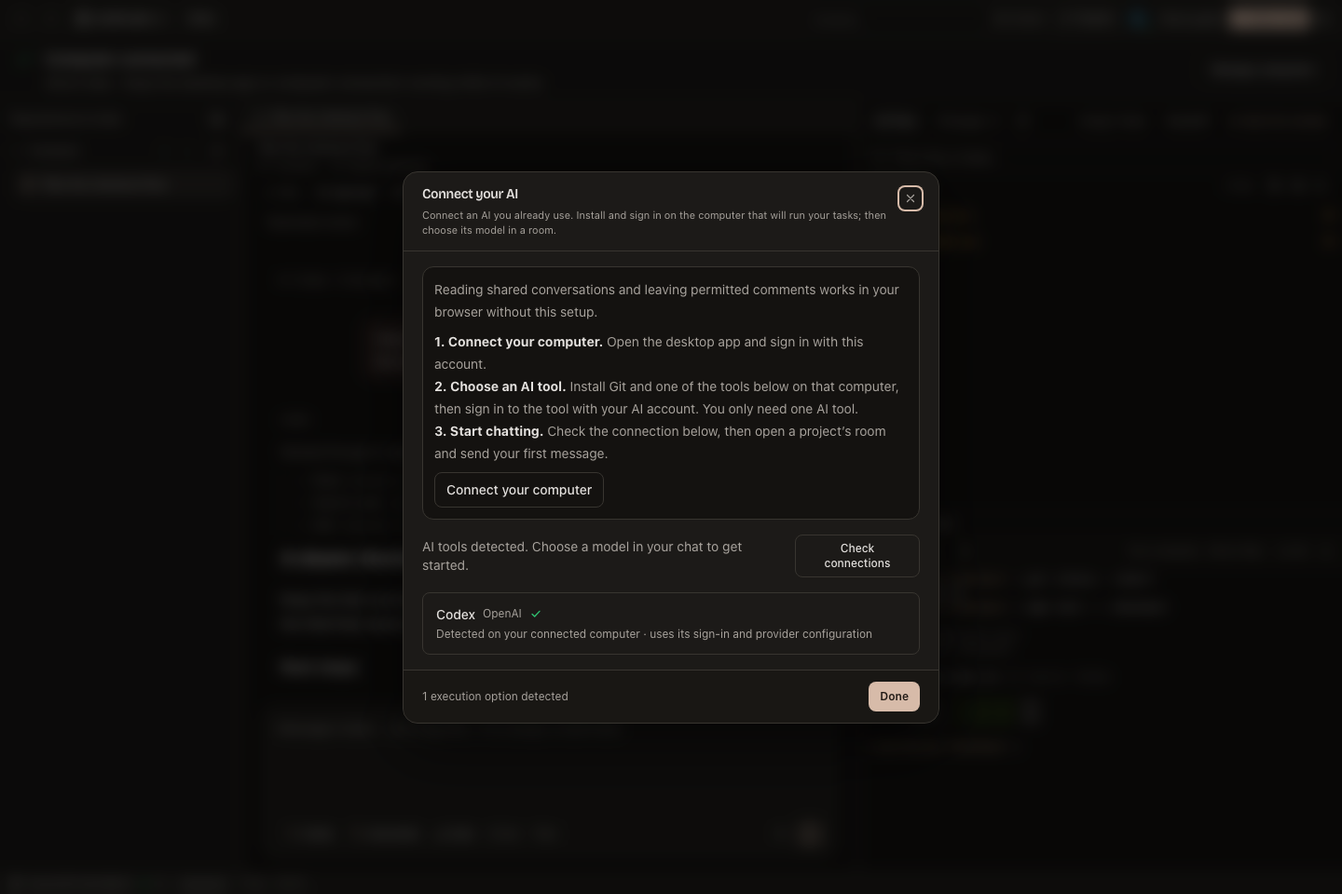
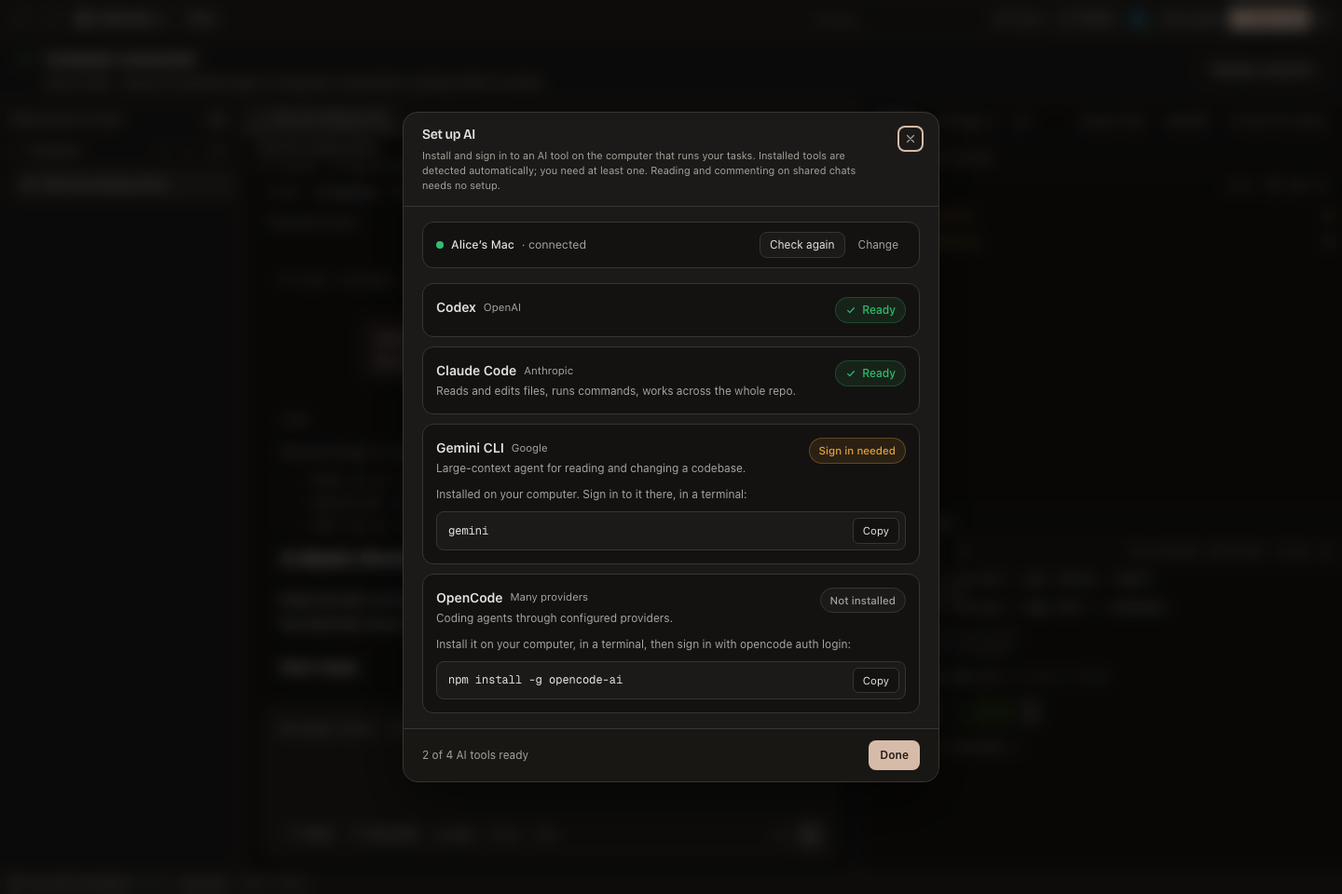
Set up AI: the connected computer, and each tool's state with its next command
The dialog now follows the new design: the connected computer on one line
(Check again, and Change to Your computers, or Connect computer when there
is none), then each AI tool with a status: Ready, Sign in needed, No models
yet, or Not installed. A tool that needs something shows the command to copy
for that computer; the footer counts how many are ready.

Nothing is hard-coded: the list, versions and states come from the
computer's runner; install commands from the tool catalog, with Homebrew
commands replaced by the vendor's Windows instructions on a Windows computer;
and there is no "Git ✓" because the runner does not report Git.

A tool installed but not signed in used to read "Not installed", because
runners only report tools ready to run. Runners now also report signed-out
tools (signedOutAgentIds; runner_devices.signed_out_agent_ids, migration
066). They take no work, and Set up AI shows their sign-in command
(claude auth login, codex login, gemini, opencode auth login).

diff --git a/app/components/ai/ConnectAiDialog.tsx b/app/components/ai/ConnectAiDialog.tsx
@@ -1,29 +1,57 @@
 "use client";
 
+/*
+ * Set up AI: which AI tools the connected computer can run. Tools are detected
+ * by that computer's runner; each row says Ready, Sign in needed (with the
+ * command to sign in), No models yet, or Not installed (with the command to
+ * install it, for that computer's operating system).
+ */
+
 import { useCallback, useEffect, useState } from "react";
 import { fetchAgents, type AgentStatus } from "../../lib/ai/client";
 import { CheckIcon, SpinnerIcon } from "../icons";
-import { GhostButton, Modal, PrimaryButton } from "../ui/Modal";
+import { Modal, PrimaryButton } from "../ui/Modal";
+import { useComputerConnection } from "./useComputerConnection";
+
+const NEEDS_MODEL = ["opencode", "ollama", "codex-ollama", "codex-lmstudio"];
 
 /** An agent that can take a run right now: installed, and signed in if it needs to be. */
 export function agentReady(agent: AgentStatus): boolean {
   return agent.installed && (!agent.auth || agent.auth.loggedIn)
-    && (!["opencode", "ollama", "codex-ollama", "codex-lmstudio"].includes(agent.id) || !!agent.models?.choices.length);
+    && (!NEEDS_MODEL.includes(agent.id) || !!agent.models?.choices.length);
+}
+
+type State = "ready" | "sign-in" | "models" | "missing";
+
+function stateOf(agent: AgentStatus): State {
+  if (!agent.installed) return "missing";
+  if (agent.auth && !agent.auth.loggedIn) return "sign-in";
+  return agentReady(agent) ? "ready" : "models";
+}
+
+/** The install step for this computer: a Homebrew command means nothing on Windows. */
+function installStep(agent: AgentStatus, platform: string | null | undefined): { command: string | null; note: string | null } {
+  const { command, alternative } = agent.install;
+  if (platform === "win32" && command.startsWith("brew ")) {
+    return alternative && !alternative.startsWith("brew ") && !alternative.includes("| bash")
+      ? { command: null, note: alternative }
+      : { command: null, note: `See ${agent.install.docs} for Windows.` };
+  }
+  return { command, note: null };
 }
 
 export function ConnectAiDialog({ onClose, onOpenDevices }: { onClose: () => void; onOpenDevices?: () => void }) {
+  const connection = useComputerConnection();
   const [agents, setAgents] = useState<AgentStatus[] | null>(null);
   const [error, setError] = useState<string | null>(null);
-  const [copiedId, setCopiedId] = useState<string | null>(null);
+  const [copied, setCopied] = useState<string | null>(null);
   const [refreshing, setRefreshing] = useState(true);
-  const [canRun, setCanRun] = useState(false);
 
   const reload = useCallback((refresh = false) =>
     fetchAgents(refresh).then(response => {
       setAgents(response.agents);
-      setCanRun(response.canRun);
     }).catch(cause => {
-      setError(cause instanceof Error ? cause.message : "Could not check your AI connections. Try again.");
+      setError(cause instanceof Error ? cause.message : "Could not check your AI tools. Try again.");
     }).finally(() => {
       setRefreshing(false);
     }), []);
@@ -32,86 +60,106 @@ export function ConnectAiDialog({ onClose, onOpenDevices }: { onClose: () => voi
     void reload();
   }, [reload]);
 
+  function recheck() {
+    setError(null);
+    setRefreshing(true);
+    void connection.refresh();
+    void reload(true);
+  }
+
+  function copy(id: string, text: string) {
+    void navigator.clipboard.writeText(text).then(() => {
+      setCopied(id);
+      setTimeout(() => setCopied(null), 1600);
+    }).catch(() => setError("Could not copy. Select and copy the command manually."));
+  }
+
   const readyCount = agents?.filter(agentReady).length ?? 0;
+  const connected = connection.status === "connected";
+  const computer = connection.computer;
+  const platform = computer?.platform;
 
   return (
     <Modal
-      title="Connect your AI"
-      description="Connect an AI you already use. Install and sign in on the computer that will run your tasks; then choose its model in a room."
+      title="Set up AI"
+      description="Install and sign in to an AI tool on the computer that runs your tasks. Installed tools are detected automatically; you need at least one. Reading and commenting on shared chats needs no setup."
       width="max-w-xl"
       onClose={onClose}
       footer={
         <>
-          <span className="mr-auto text-[12px] text-vs-muted">
-            {agents === null ? "" : `${readyCount} execution option${readyCount === 1 ? "" : "s"} detected`}
+          <span role="status" className="mr-auto text-[12px] text-vs-muted">
+            {agents === null ? "" : `${readyCount} of ${agents.length} AI tools ready`}
           </span>
-          <PrimaryButton onClick={onClose}>
-            {readyCount > 0 ? "Done" : "Skip for now"}
-          </PrimaryButton>
+          <PrimaryButton onClick={onClose}>{readyCount > 0 ? "Done" : "Skip for now"}</PrimaryButton>
         </>
       }
     >
-      <div className="rounded-xl border border-vs-border bg-vs-editor p-3 text-sm leading-6 text-vs-muted">
-        <p className="mb-2">Reading shared conversations and leaving permitted comments works in your browser without this setup.</p>
-        <p><strong className="text-vs-fg">1. Connect your computer.</strong> Open the desktop app and sign in with this account.</p>
-        <p><strong className="text-vs-fg">2. Choose an AI tool.</strong> Install Git and one of the tools below on that computer, then sign in to the tool with your AI account. You only need one AI tool.</p>
-        <p><strong className="text-vs-fg">3. Start chatting.</strong> Check the connection below, then open a project’s room and send your first message.</p>
-        {onOpenDevices && <button type="button" onClick={onOpenDevices} className="mt-2 rounded-lg border border-vs-border px-3 py-1.5 font-medium text-vs-fg hover:bg-vs-hover">Connect your computer</button>}
-      </div>
-      <div className="flex items-center justify-between gap-3">
-        <p className="text-sm text-vs-muted">{canRun ? "AI tools detected. Choose a model in your chat to get started." : "No AI tool is ready yet. Keep your computer connected while you complete setup."}</p>
-        <GhostButton onClick={() => { setError(null); setRefreshing(true); void reload(true); }} disabled={refreshing}>{refreshing ? "Checking…" : "Check connections"}</GhostButton>
-      </div>
+      <section aria-label="Connected computer" className="flex flex-wrap items-center justify-between gap-2 rounded-xl border border-vs-border bg-vs-editor px-3.5 py-2.5 text-[12.5px]">
+        <div className="flex min-w-0 items-center gap-2">
+          <span className={`h-2 w-2 shrink-0 rounded-full ${connected ? "bg-vs-success" : connection.status === "checking" ? "bg-vs-muted/40" : "bg-vs-warn"}`} />
+          <span className="truncate font-medium text-vs-fg">
+            {connected ? computer?.name ?? "Connected computer"
+              : connection.status === "checking" ? "Checking your computer…"
+              : connection.status === "offline" ? `${computer?.name ?? "Your computer"} is offline`
+              : connection.status === "update" ? `${computer?.name ?? "Your computer"} needs an update`
+              : connection.status === "error" ? "Couldn’t check your computer"
+              : "No computer connected"}
+          </span>
+          {connected && <span className="shrink-0 text-vs-muted">· connected</span>}
+        </div>
+        <div className="flex items-center gap-1.5">
+          <button type="button" onClick={recheck} disabled={refreshing || connection.checking}
+            className="rounded-lg border border-vs-border bg-vs-panel px-2.5 py-1 text-[12px] text-vs-fg transition hover:bg-vs-hover disabled:opacity-60">
+            {refreshing || connection.checking ? "Checking…" : "Check again"}
+          </button>
+          {onOpenDevices && (connected
+            ? <button type="button" onClick={onOpenDevices} className="px-2 py-1 text-[12px] text-vs-muted transition hover:text-vs-fg">Change</button>
+            : <button type="button" onClick={onOpenDevices} className="rounded-lg bg-vs-accent px-2.5 py-1 text-[12px] font-medium text-vs-accent-fg transition hover:opacity-90">Connect computer</button>)}
+        </div>
+      </section>
+      {!connected && connection.status !== "checking" && (
+        <p className="-mt-2 text-[12.5px] leading-5 text-vs-muted">AI tools are detected on your computer, so connect it first: open the desktop app and sign in with this account.</p>
+      )}
+
       {error && (
-        <p role="alert" className="rounded-lg border border-vs-danger/40 bg-vs-danger/10 px-3 py-2 text-sm text-vs-danger">
-          {error}
-        </p>
+        <p role="alert" className="rounded-lg border border-vs-danger/40 bg-vs-danger/10 px-3 py-2 text-sm text-vs-danger">{error}</p>
       )}
 
       {agents === null && !error ? (
-        <div className="flex justify-center py-8">
-          <SpinnerIcon className="h-5 w-5 text-vs-muted" />
-        </div>
+        <div className="flex justify-center py-8"><SpinnerIcon className="h-5 w-5 text-vs-muted" /></div>
       ) : (
-        <ul className="space-y-2">
+        <ul aria-label="AI tools" className="space-y-2.5">
           {(agents ?? []).map((agent) => {
-            const ready = agentReady(agent);
+            const state = stateOf(agent);
+            const install = installStep(agent, platform);
+            const step = state === "missing" ? install.command : state === "sign-in" ? agent.install.signIn ?? null : null;
             return (
-              <li key={agent.id} className="rounded-lg border border-vs-border px-3.5 py-3">
-                <div className="flex items-center gap-3">
-                  <div className="min-w-0 flex-1">
-                    <p className="flex items-center gap-2 text-[14px] font-medium text-vs-fg">
-                      {agent.name}
-                      <span className="text-[12px] font-normal text-vs-muted">{agent.vendor}</span>
-                      {ready && <CheckIcon className="h-3.5 w-3.5 text-vs-success" />}
+              <li key={agent.id} className="rounded-xl border border-vs-border bg-vs-editor p-3.5">
+                <div className="flex items-start justify-between gap-3">
+                  <div className="min-w-0">
+                    <p className="flex items-center gap-2">
+                      <span className="text-[14px] font-semibold text-vs-fg">{agent.name}</span>
+                      <span className="text-[11.5px] text-vs-muted">{agent.vendor}</span>
                     </p>
                     <p className="mt-0.5 text-[12px] leading-5 text-vs-muted">{agent.blurb}</p>
-                    <p className="mt-0.5 text-[12px] text-vs-muted">
-                      {agent.installed ? "Detected on your connected computer · uses its sign-in and provider configuration" : "Not detected on a connected computer. Install it there and sign in to it in a terminal on that computer."}
-                    </p>
-                    {agent.installed && !ready && <p className="mt-1 text-xs text-vs-warn">No models available yet. Connect a provider or install a compatible local model, then check again.</p>}
                   </div>
-
+                  <StatePill state={state} />
                 </div>
 
-                {!agent.installed && (
-                  <div className="mt-2 flex items-center gap-2">
-                    <code className="flex-1 truncate rounded-md border border-vs-border bg-vs-editor px-2.5 py-1.5 font-mono text-[12px] text-vs-fg">
-                      {agent.install.command}
-                    </code>
-                    <GhostButton
-                      onClick={() => {
-                        void navigator.clipboard.writeText(agent.install.command).then(() => {
-                          setCopiedId(agent.id);
-                          setTimeout(() => setCopiedId(null), 1500);
-                        }).catch(() => setError("Could not copy. Select and copy the installation command manually."));
-                      }}
-                    >
-                      {copiedId === agent.id ? "Copied" : "Copy"}
-                    </GhostButton>
+                {state === "models" && <p className="mt-2 text-[12px] leading-5 text-vs-warn">Installed, but no models yet. Connect a provider or install a compatible local model, then check again.</p>}
+                {state === "sign-in" && <p className="mt-2 text-[12px] leading-5 text-vs-muted">Installed on your computer. Sign in to it there{agent.install.signIn ? ", in a terminal:" : "."}</p>}
+                {state === "missing" && (install.note
+                  ? <p className="mt-2 text-[12px] leading-5 text-vs-muted">{install.note}</p>
+                  : <p className="mt-2 text-[12px] leading-5 text-vs-muted">Install it on your computer, in a terminal{agent.install.signIn && <>, then sign in with <code className="font-mono text-vs-fg">{agent.install.signIn}</code></>}:</p>)}
+                {step && (
+                  <div className="mt-2 flex items-center gap-2 rounded-lg border border-vs-border bg-vs-panel py-1.5 pl-3 pr-1.5">
+                    <code className="vs-scroll min-w-0 flex-1 overflow-x-auto whitespace-nowrap font-mono text-[12px] text-vs-fg">{step}</code>
+                    <button type="button" aria-label={`Copy the ${agent.name} command`} onClick={() => copy(agent.id, step)}
+                      className="shrink-0 rounded-md border border-vs-border bg-vs-editor px-2.5 py-1 text-[11.5px] text-vs-fg transition hover:bg-vs-hover">
+                      {copied === agent.id ? "Copied ✓" : "Copy"}
+                    </button>
                   </div>
                 )}
-
               </li>
             );
           })}
@@ -119,4 +167,13 @@ export function ConnectAiDialog({ onClose, onOpenDevices }: { onClose: () => voi
       )}
     </Modal>
   );
+}
+
+function StatePill({ state }: { state: State }) {
+  if (state === "ready") {
+    return <span className="inline-flex shrink-0 items-center gap-1.5 rounded-full border border-vs-success/25 bg-vs-success/10 px-2.5 py-1 text-[12px] font-medium text-vs-success"><CheckIcon className="h-3 w-3" />Ready</span>;
+  }
+  const label = state === "sign-in" ? "Sign in needed" : state === "models" ? "No models yet" : "Not installed";
+  const tone = state === "missing" ? "border-vs-border bg-vs-panel text-vs-muted" : "border-vs-warn/30 bg-vs-warn/10 text-vs-warn";
+  return <span className={`inline-flex shrink-0 items-center rounded-full border px-2.5 py-1 text-[11.5px] font-medium ${tone}`}>{label}</span>;
 }

diff --git a/app/docs/content.ts b/app/docs/content.ts
@@ -42,7 +42,7 @@ Imported files are uploaded to the workspace, and authorised teammates can acces
 
 - You can sign in and open your project’s room.
 - **Your computers** shows an online computer under the same account.
-- **Connect your AI** shows an installed, configured execution option.
+- **Set up AI** shows at least one AI tool as **Ready**.
 - The composer has an available provider and model selected.
 - You have edit access and control of the conversation.
 
@@ -207,11 +207,11 @@ Using a tool still asks in the chat, as described above. MCP servers work with C
     sections: [
       { id: "connect", title: "Install and connect one tool", body: `1. Install Git and your chosen AI command-line tool on the connected computer. Use its official installer and sign-in instructions.
 2. Run that tool directly in a terminal once and finish its login/provider setup.
-3. In Multicode AI, open **AI providers**, **Set up AI**, or **Providers** inside a chat.
-4. Select **Check connections**. If a detected tool offers **Connect**, follow its login flow; you can also complete the CLI login in your terminal.
+3. In Multicode AI, open **AI providers**, **Set up AI**, or **Providers** inside a chat. The top line names your connected computer; **Change** opens Your computers.
+4. Select **Check again**. Each tool shows **Ready**, **Sign in needed** (with the command to sign in, such as \`claude auth login\` or \`codex login\`), **No models yet**, or **Not installed** (with the install command for that computer; on Windows, Homebrew commands are replaced by the vendor's Windows installer).
 5. Return to the room and choose its provider and model in the composer.
 
-You only need **one** working tool. The app displays installation commands for missing tools and status for installed tools. It does not install every provider or purchase AI credits for you.`, screenshot: "providers" },
+You only need **one** working tool; the footer counts how many are ready. It does not install every provider or purchase AI credits for you.`, screenshot: "providers" },
       { id: "options", title: "Available execution options", body: `| Option | Required setup | Behavior in this app |
 | --- | --- | --- |
 | Claude Code | Installed CLI and provider sign-in | Coding agent; available aliases or discovered models |
@@ -765,7 +765,7 @@ Do not post the complete token in a public support thread.` },
       { id: "email", title: "The verification email hasn’t arrived", body: `Check the entered address and spam folder. Wait for the resend timer, then request a new code and use the newest email. Follow the code expiry and resend instructions shown by Clerk.
 
 If the page reports delivery failure, follow its retry guidance or contact the workspace administrator. Email delivery acceptance does not guarantee placement in the inbox. Google sign-in does not require this separate code flow.` },
-      { id: "provider", title: "A model is missing or the provider fails", body: `Try the installed AI CLI directly on the connected computer and finish its own login or provider configuration. Update the CLI if needed, then use **Check connections** and refresh the model picker.
+      { id: "provider", title: "A model is missing or the provider fails", body: `Try the installed AI CLI directly on the connected computer and finish its own login or provider configuration. Update the CLI if needed, then use **Check again** in Set up AI and refresh the model picker.
 
 If the app marks a model unavailable, select an available model explicitly. If the provider reports quota or billing errors, resolve them in that provider’s account. For local models, confirm the model is installed and the expected local server is running. Discovery does not download weights.` },
       { id: "files", title: "Files or changes are missing", body: `Confirm the selected room and repository. Your original imported folder, the app’s saved repository, and the runner’s managed worktree are separate locations. Check import completion, save status, the last uploaded activity, and whether the correct repository was published or synced.

diff --git a/app/api/runner/heartbeat/route.ts b/app/api/runner/heartbeat/route.ts
@@ -32,12 +32,16 @@ async function handlePOST(request: Request) {
   }
   const agentIds = body.agentIds.filter((id: unknown): id is string => typeof id === "string" && !!agentById(id));
   const catalog = sanitizeCatalog(body.modelCatalog);
+  // Installed but signed out: shown in Set up AI with the sign-in command, never given work.
+  const signedOutAgentIds = Array.isArray(body.signedOutAgentIds)
+    ? [...new Set(body.signedOutAgentIds.filter((id: unknown): id is string => typeof id === "string" && !!agentById(id) && !agentIds.includes(id)))]
+    : [];
   // Names of the AI-tool keys this computer holds, never their values.
   const secretNames = Array.isArray(body.secretNames)
     ? [...new Set(body.secretNames.filter((name: unknown): name is string => typeof name === "string" && /^[A-Z][A-Z0-9_]{0,63}$/.test(name)))].sort().slice(0, 200)
     : [];
-  const changed = await query(`UPDATE runner_devices SET version = $2, agent_ids = $3, model_catalog = $4, supports_inputs=$5, supports_isolated_chats=$6, supports_terminal=$7, supports_attachments=$8, supports_agent_tools=$9, secret_names=$10, supports_permissions=$11, last_seen_at = now() WHERE id = $1
-    AND (last_seen_at IS NULL OR version IS DISTINCT FROM $2 OR agent_ids IS DISTINCT FROM $3 OR model_catalog IS DISTINCT FROM $4::jsonb OR supports_inputs IS DISTINCT FROM $5 OR supports_isolated_chats IS DISTINCT FROM $6 OR supports_terminal IS DISTINCT FROM $7 OR supports_attachments IS DISTINCT FROM $8 OR supports_agent_tools IS DISTINCT FROM $9 OR secret_names IS DISTINCT FROM $10 OR supports_permissions IS DISTINCT FROM $11) RETURNING id`, [device.id, "2", agentIds, JSON.stringify(catalog),body.supportsInputs===true,body.supportsIsolatedChats===true,body.supportsTerminal===true,body.supportsAttachments===true,body.supportsAgentTools===true,secretNames,body.supportsPermissions===true]);
+  const changed = await query(`UPDATE runner_devices SET version = $2, agent_ids = $3, model_catalog = $4, supports_inputs=$5, supports_isolated_chats=$6, supports_terminal=$7, supports_attachments=$8, supports_agent_tools=$9, secret_names=$10, supports_permissions=$11, signed_out_agent_ids=$12, last_seen_at = now() WHERE id = $1
+    AND (last_seen_at IS NULL OR version IS DISTINCT FROM $2 OR agent_ids IS DISTINCT FROM $3 OR model_catalog IS DISTINCT FROM $4::jsonb OR supports_inputs IS DISTINCT FROM $5 OR supports_isolated_chats IS DISTINCT FROM $6 OR supports_terminal IS DISTINCT FROM $7 OR supports_attachments IS DISTINCT FROM $8 OR supports_agent_tools IS DISTINCT FROM $9 OR secret_names IS DISTINCT FROM $10 OR supports_permissions IS DISTINCT FROM $11 OR signed_out_agent_ids IS DISTINCT FROM $12) RETURNING id`, [device.id, "2", agentIds, JSON.stringify(catalog),body.supportsInputs===true,body.supportsIsolatedChats===true,body.supportsTerminal===true,body.supportsAttachments===true,body.supportsAgentTools===true,secretNames,body.supportsPermissions===true,signedOutAgentIds]);
   if(changed.length)await (await events()).publish(`user:${device.userId}`,{type:'devices.changed',at:Date.now()}).catch(()=>{});
   return Response.json(
     { ok: true, deviceId: device.id, serverTime: Date.now() } satisfies HeartbeatResponse,

diff --git a/app/lib/ai/catalog.ts b/app/lib/ai/catalog.ts
@@ -105,6 +105,8 @@ export type AgentSpec = {
     command: string;
     /** Offered when the vendor has a first-party installer worth preferring. */
     alternative?: string;
+    /** Run once after installing, in a terminal on that computer, to sign in. */
+    signIn?: string;
     docs: string;
   };
   blurb: string;
@@ -189,6 +191,7 @@ export const AGENTS: AgentSpec[] = [
     install: {
       command: "npm install -g @anthropic-ai/claude-code",
       alternative: "curl -fsSL https://claude.ai/install.sh | bash",
+      signIn: "claude auth login",
       docs: "https://docs.claude.com/en/docs/claude-code",
     },
     blurb: "Reads and edits files, runs commands, works across the whole repo.",
@@ -219,6 +222,7 @@ export const AGENTS: AgentSpec[] = [
     install: {
       command: "npm install -g @openai/codex",
       alternative: "brew install codex",
+      signIn: "codex login",
       docs: "https://developers.openai.com/codex/cli",
     },
     blurb: "Runs a task to completion in the working copy and reports back.",
@@ -238,6 +242,7 @@ export const AGENTS: AgentSpec[] = [
     efforts: [],
     install: {
       command: "npm install -g @google/gemini-cli",
+      signIn: "gemini",
       docs: "https://github.com/google-gemini/gemini-cli",
     },
     blurb: "Large-context agent for reading and changing a codebase.",
@@ -266,7 +271,7 @@ export const AGENTS: AgentSpec[] = [
     promptArgs: (prompt, opts) => ["run", "--format", "json", "--model", requiredModel(opts), ...(opts?.effort ? ["--variant", opts.effort] : []), "--", prompt],
     createStreamParser: createOpenCodeStreamParser,
     models: [], efforts: [],
-    install: { command: "npm install -g opencode-ai", docs: "https://opencode.ai/docs/providers/" },
+    install: { command: "npm install -g opencode-ai", signIn: "opencode auth login", docs: "https://opencode.ai/docs/providers/" },
     blurb: "Coding agents through configured providers: OpenRouter, Anthropic, Google, OpenAI, DeepSeek, Groq, and more. Connect accounts once with opencode auth login on your runner.",
   },
   ...(["ollama", "lmstudio"] as const).map(provider => ({

diff --git a/app/api/ai/agents/route.ts b/app/api/ai/agents/route.ts
@@ -23,8 +23,8 @@ async function handleGET() {
 
   // AI tools run only on members' own computers, so the tools that count are
   // the ones their connected runners report (refreshed by each heartbeat).
-  const devices = localRunnersEnabled() ? await query<{ agent_ids: string[]; model_catalog: Record<string, ModelInventory> }>(
-    `SELECT agent_ids, model_catalog FROM runner_devices WHERE user_id = $1 AND revoked_at IS NULL AND version = '2'
+  const devices = localRunnersEnabled() ? await query<{ agent_ids: string[]; signed_out_agent_ids: string[]; model_catalog: Record<string, ModelInventory> }>(
+    `SELECT agent_ids, signed_out_agent_ids, model_catalog FROM runner_devices WHERE user_id = $1 AND revoked_at IS NULL AND version = '2'
       AND last_seen_at > now() - interval '30 seconds'`, [user.id],
   ) : [];
   const localIds = new Set(devices.flatMap(device => device.agent_ids));
@@ -33,7 +33,12 @@ async function handleGET() {
   }));
   const agents = detected.map(agent => {
     const matching = devices.filter(device => device.agent_ids.includes(agent.id));
-    if (!matching.length) return agent;
+    if (!matching.length) {
+      // Installed on a connected computer but not signed in there: it takes no work yet.
+      return devices.some(device => device.signed_out_agent_ids?.includes(agent.id))
+        ? { ...agent, installed: true, execution: "runner" as const, auth: { loggedIn: false, method: null, email: null, plan: null } }
+        : agent;
+    }
     const spec = AGENTS.find(spec => spec.id === agent.id)!;
     const inventories = matching.map(device => device.model_catalog?.[agent.id] ?? {
       choices: spec.requiresModel ? [] : [{ id: "", label: "Auto · update runner for model discovery", efforts: spec.efforts }],

diff --git a/runner/api.ts b/runner/api.ts
@@ -63,7 +63,7 @@ export class RunnerApi {
   async heartbeat(onlyChanged = false): Promise<void> {
     const agents = await detectAgents();
     const available = agents.filter(agent => agent.installed && agent.auth?.loggedIn !== false);
-    const body = { version: "2", supportsInputs: true, supportsIsolatedChats: true, supportsTerminal: this.supportsTerminal, supportsAttachments: true, supportsAgentTools: true, supportsPermissions: true, secretNames: this.secretNames(), agentIds: available.map(agent => agent.id), modelCatalog: Object.fromEntries(available.filter(agent => agent.models).map(agent => [agent.id, agent.models])) };
+    const body = { version: "2", supportsInputs: true, supportsIsolatedChats: true, supportsTerminal: this.supportsTerminal, supportsAttachments: true, supportsAgentTools: true, supportsPermissions: true, secretNames: this.secretNames(), agentIds: available.map(agent => agent.id), signedOutAgentIds: agents.filter(agent => agent.installed && agent.auth?.loggedIn === false).map(agent => agent.id), modelCatalog: Object.fromEntries(available.filter(agent => agent.models).map(agent => [agent.id, agent.models])) };
     // Timestamps change when the CLI cache is refreshed; they are not inventory changes.
     const signature = JSON.stringify(body, (key, value) => ["checkedAt", "refreshedAt"].includes(key) ? undefined : value);
     if (onlyChanged && this.inventory === signature) return;

diff --git a/app/docs/screenshots.ts b/app/docs/screenshots.ts
@@ -4,7 +4,7 @@ export const screenshots: Record<string, { src: string; alt: string; label: stri
   ["desktop-worktrees", "Local worktree settings", "Desktop settings showing the local worktrees folder and update controls."],
   ["workspace", "Project overview", "A sample organisation’s project overview and workspace navigation."],
   ["computers", "Your computers", "The Your computers dialog showing a connected sample computer."],
-  ["providers", "Connect your AI", "The Connect your AI dialog showing installation and connection status."],
+  ["providers", "Connect your AI", "The Set up AI dialog: the connected computer and each AI tool’s status, with its install or sign-in command."],
   ["empty-project", "Start without files", "Create a named conversation space without uploading a repository."],
   ["add-repository", "Add a repository", "The Add repository dialog offering a conversation space, folder import, and project repositories."],
   ["project-repositories", "Project repositories", "The shared repository catalog with Add to room controls."],
